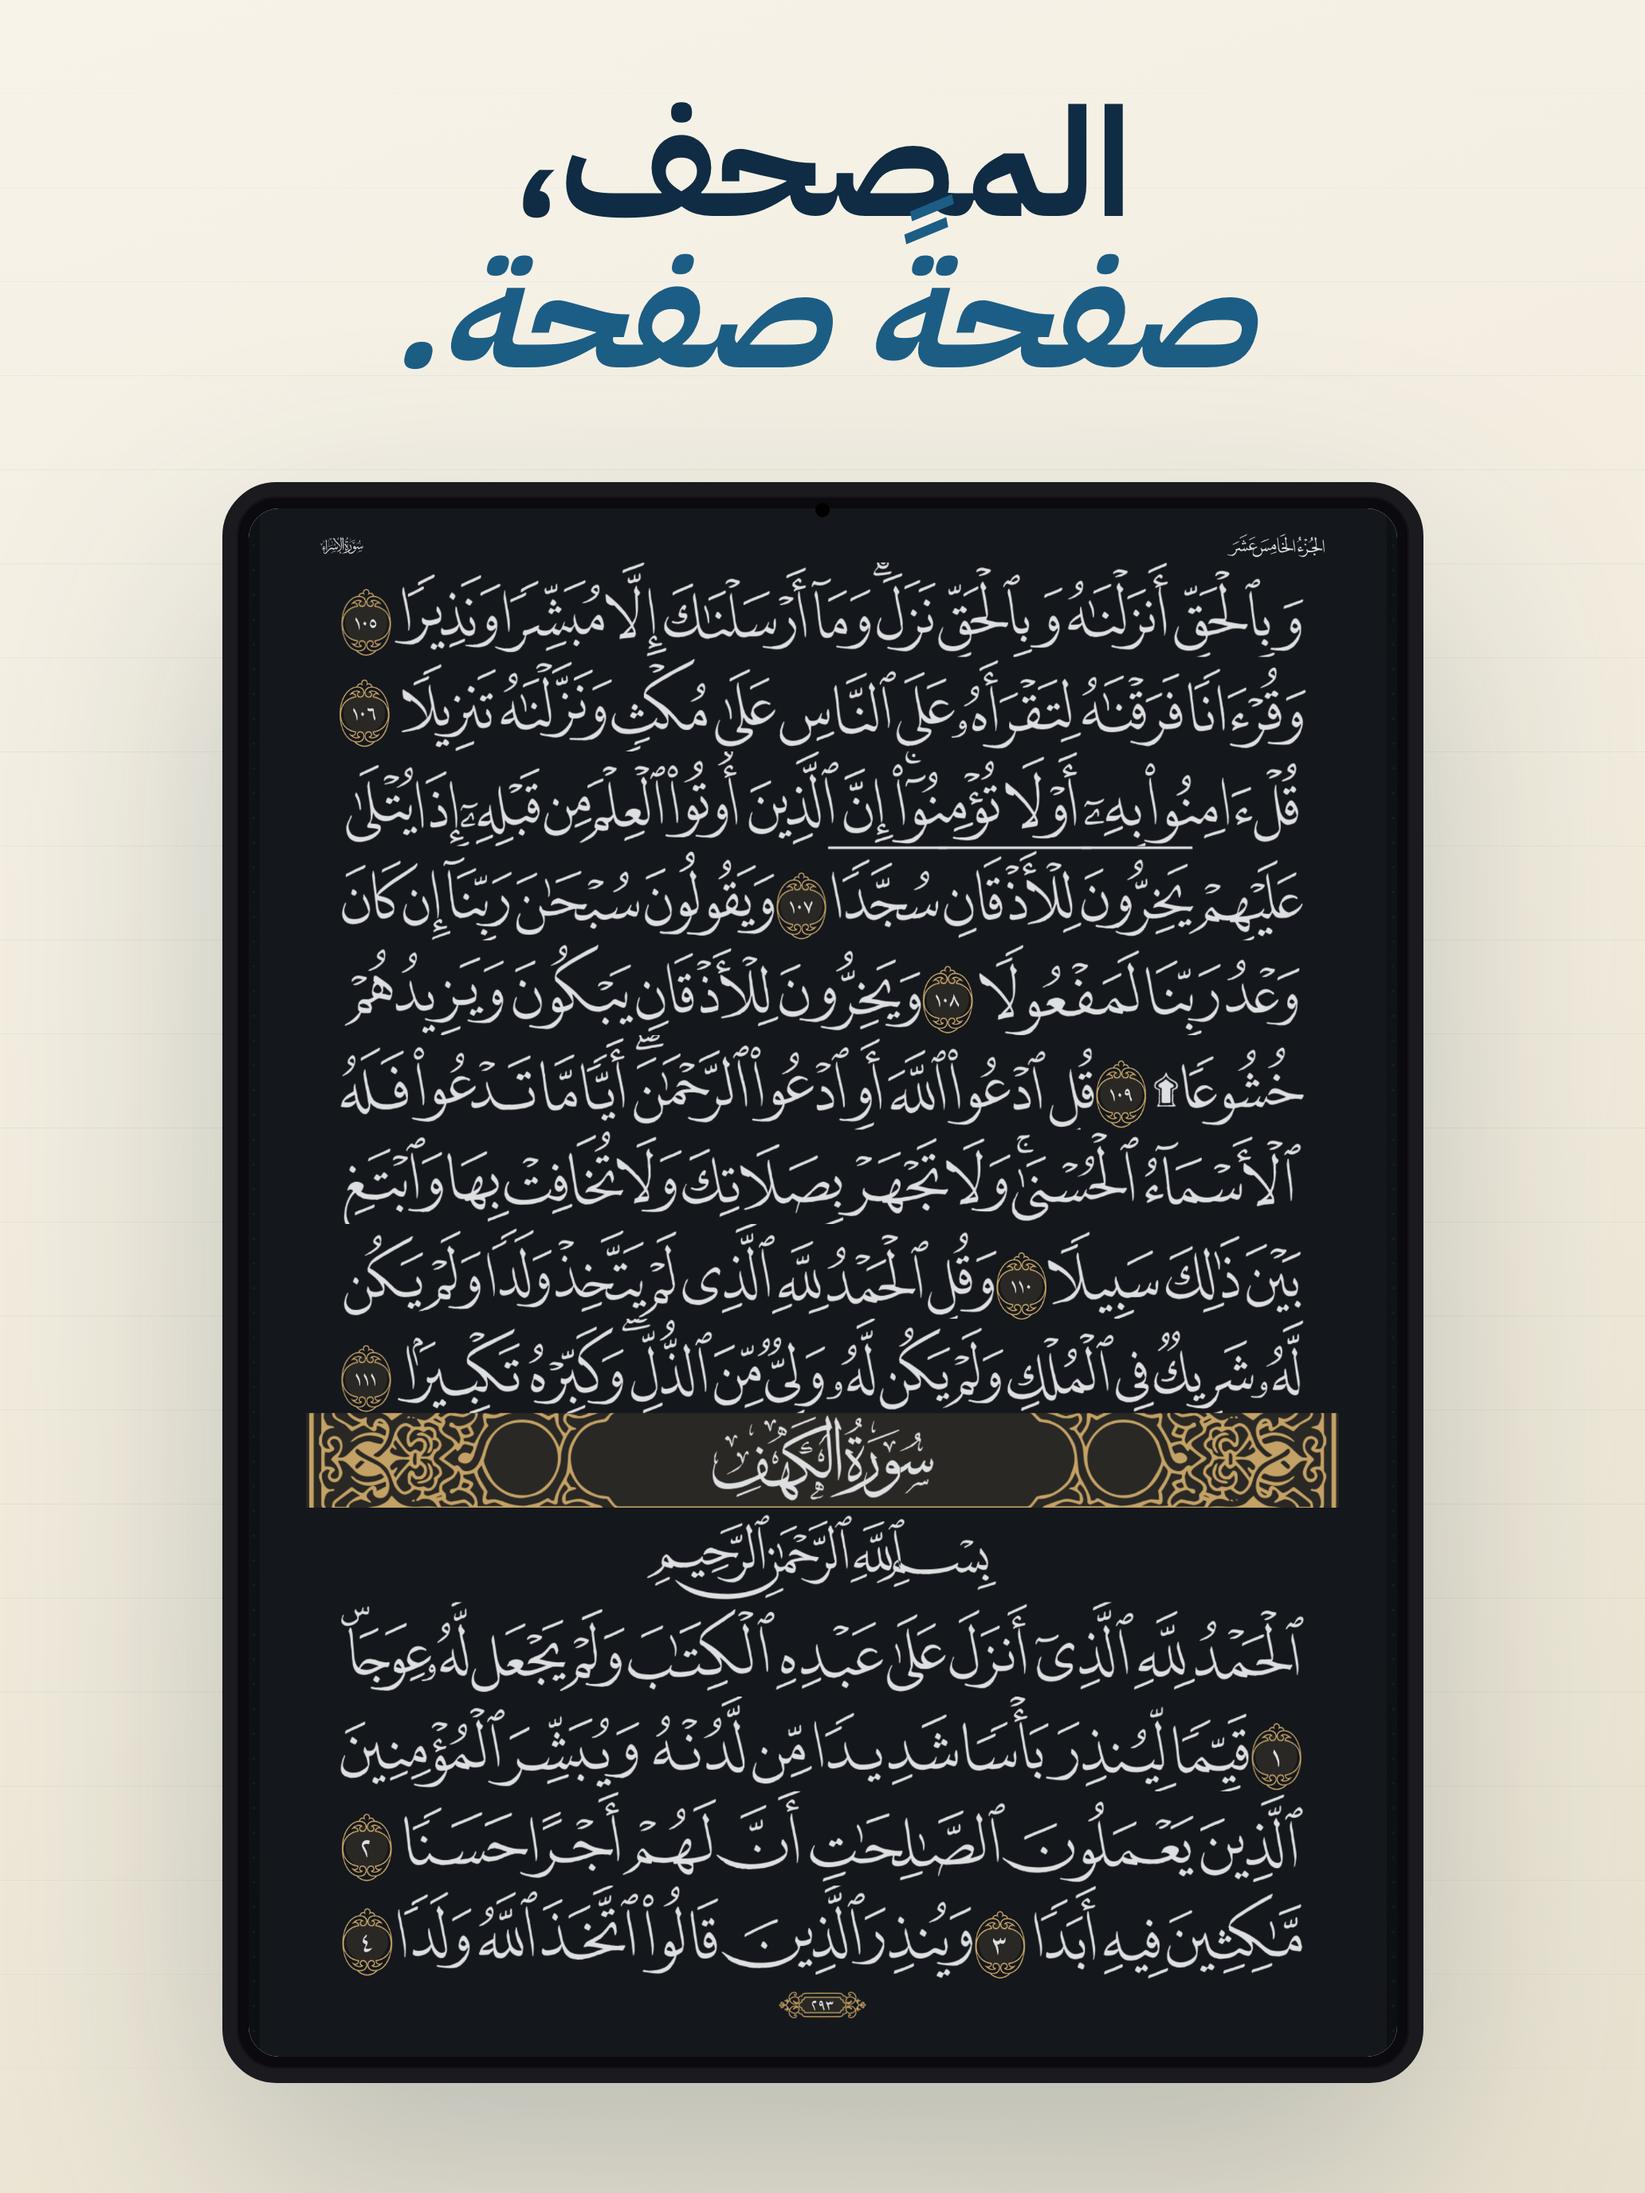
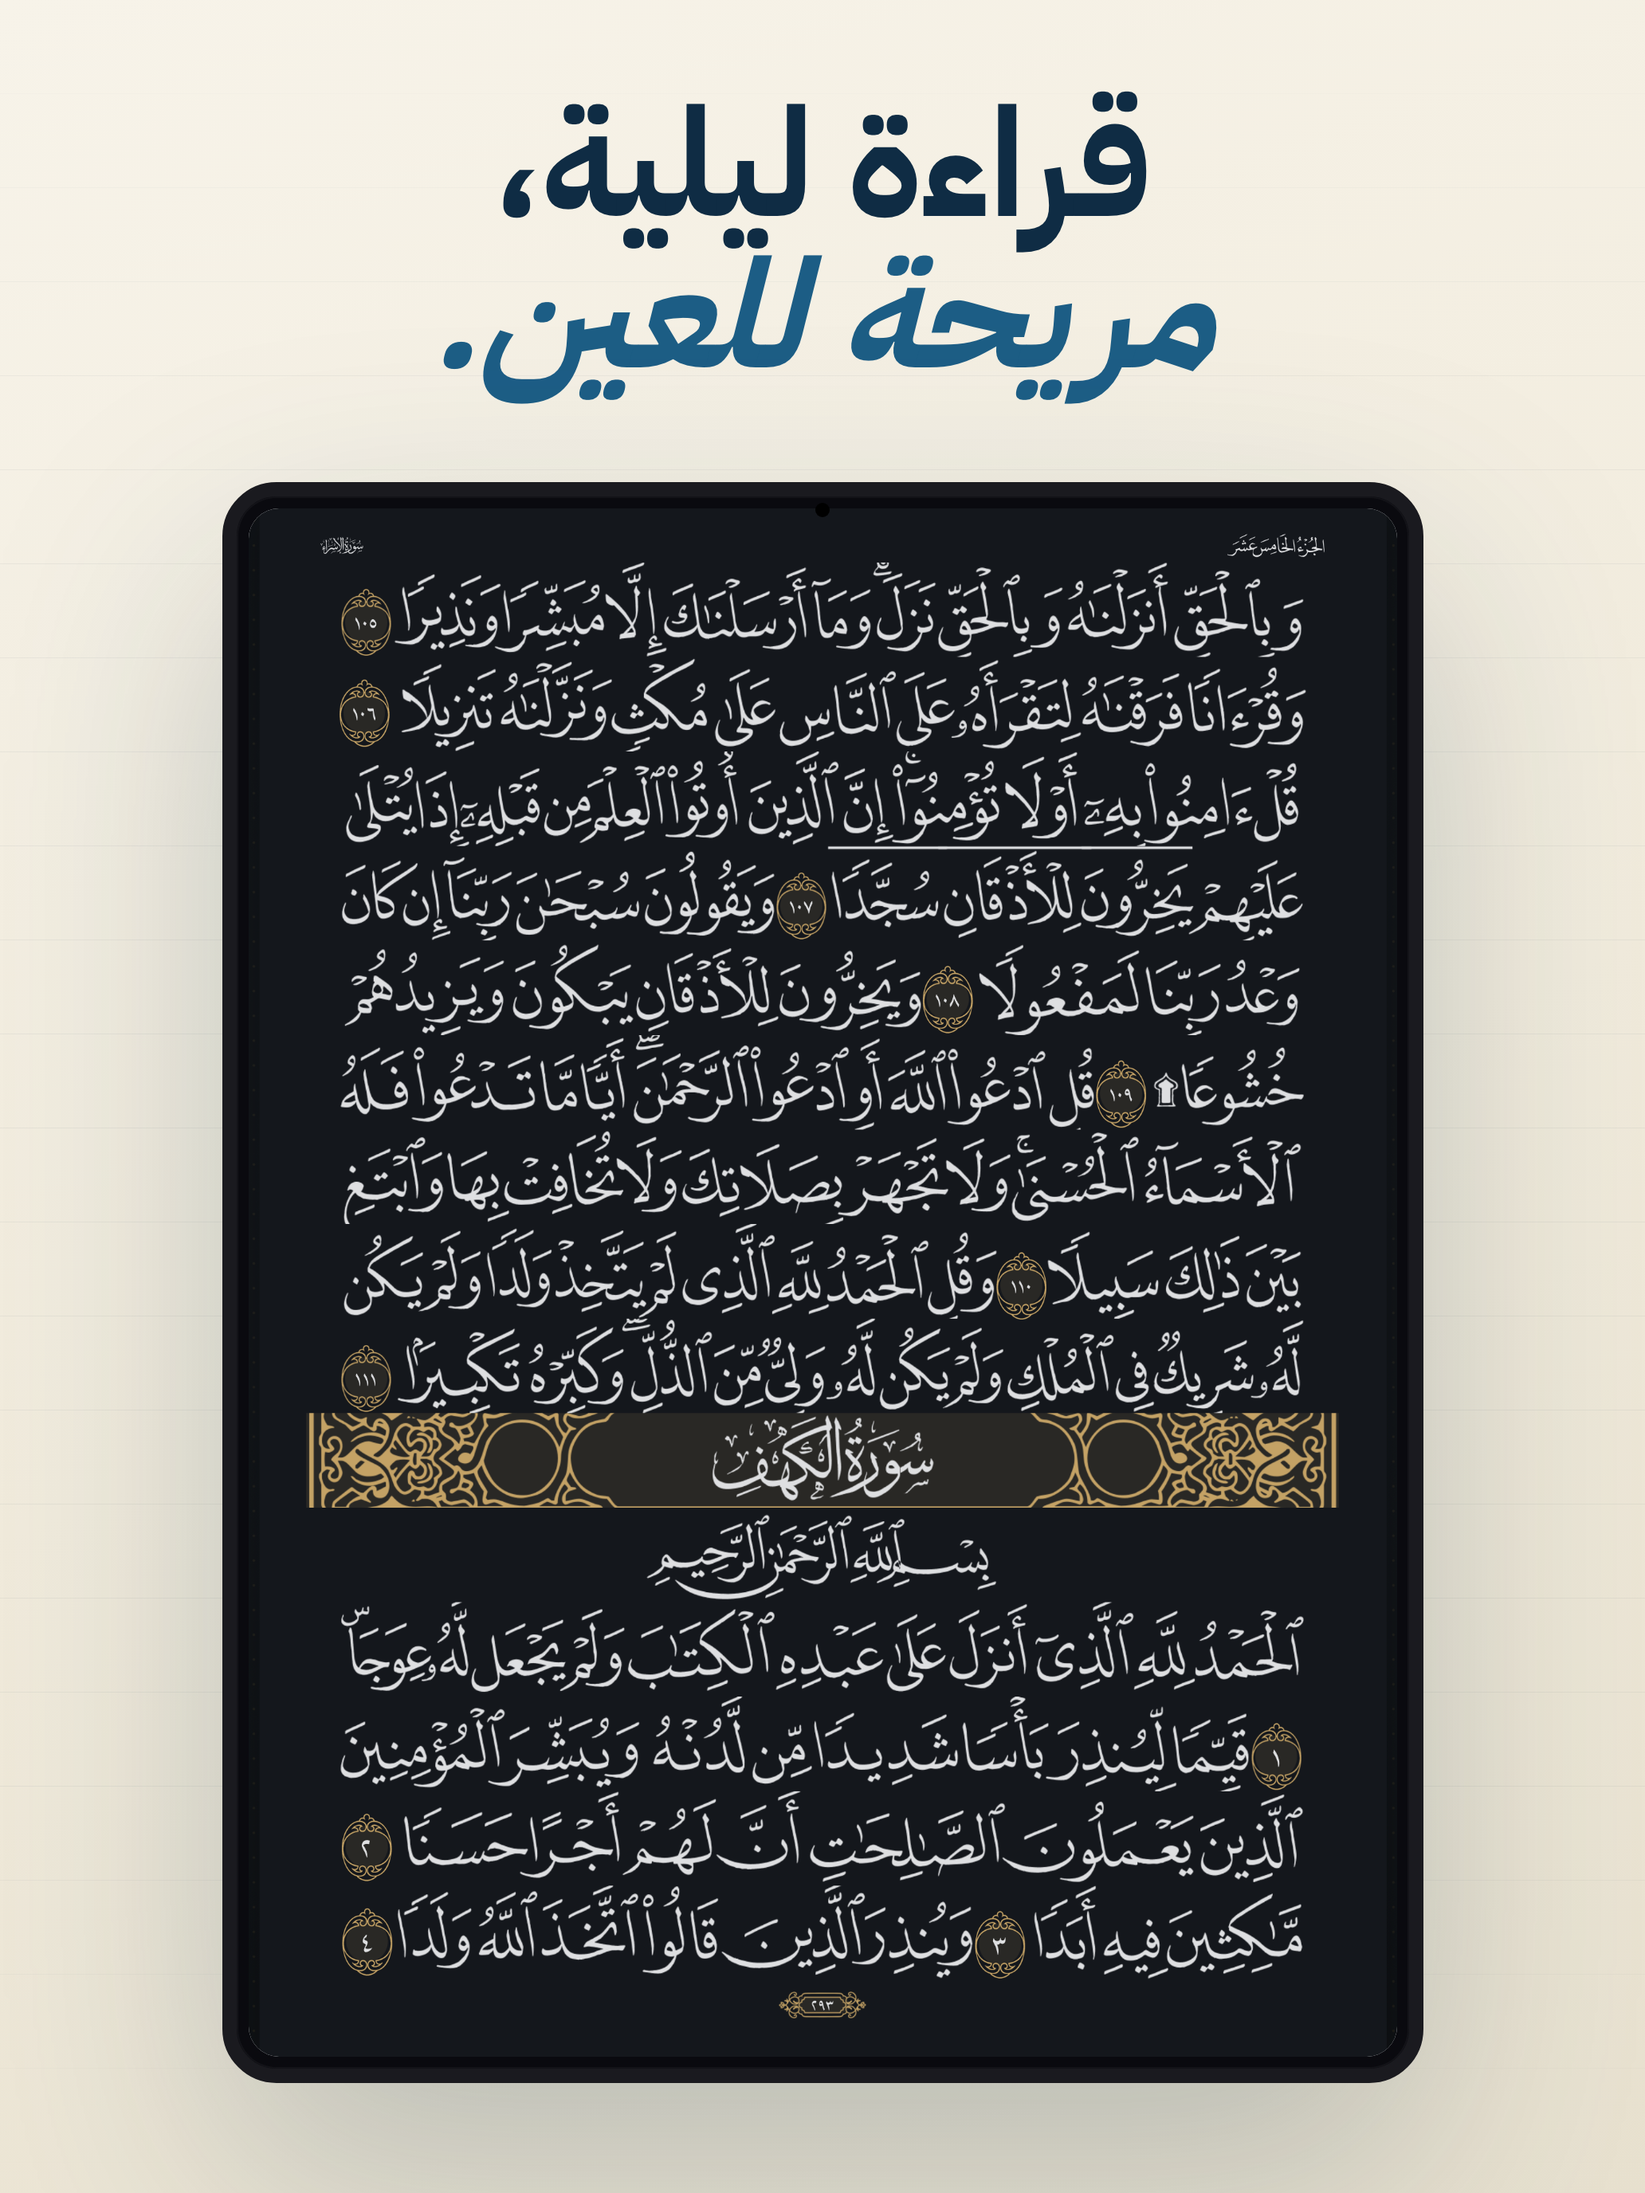
feat(screenshots): give the dark reader cell its own headline

Changed region(s): [[0.2481, 0.0312, 0.7752, 0.1875]]

diff --git a/scripts/screenshots/run.ts b/scripts/screenshots/run.ts
@@ -44,7 +44,8 @@ const SCRIPT_DIR = path.dirname(fileURLToPath(import.meta.url));
 const PROJECT_ROOT = path.resolve(SCRIPT_DIR, "..", "..");
 const RAW_DIR = path.join(PROJECT_ROOT, "tmp", "screenshots-raw");
 const OUT_DIR = path.join(PROJECT_ROOT, "fastlane", "screenshots");
-const WEBSITE_DIR = path.join(PROJECT_ROOT, "website-v2", "src", "assets", "screenshots");
+// The site is a sibling repo (Astro), not a directory inside the app.
+const WEBSITE_DIR = path.join(PROJECT_ROOT, "..", "website", "src", "assets", "screenshots");
 
 function sh(cmd: string, args: string[]): void {
   execFileSync(cmd, args, { stdio: "inherit" });
@@ -94,8 +95,25 @@ function getBootedDeviceId(): string {
 function getBootedAndroidSerial(): string {
   const output = shOut("adb", ["devices"]);
   // `adb devices` prints a header line then `<serial>\t<state>` rows.
-  for (const line of output.split("\n").slice(1)) {
-    const [serial, state] = line.trim().split(/\s+/);
+  const rows = output
+    .split("\n")
+    .slice(1)
+    .map((line) => line.trim().split(/\s+/))
+    .filter(([serial, state]) => serial && state === "device");
+  // With more than one emulator up, picking the first row silently targets
+  // whichever adb happened to list first. ANDROID_SERIAL names the intended one.
+  const wanted = process.env.ANDROID_SERIAL;
+  if (wanted) {
+    const match = rows.find(([serial]) => serial === wanted);
+    if (!match) {
+      throw new Error(
+        `ANDROID_SERIAL=${wanted} is not an attached device. Attached: ${rows.map(([s]) => s).join(", ") || "none"}`
+      );
+    }
+    console.log(`[verify] using android device from ANDROID_SERIAL: ${wanted}`);
+    return wanted;
+  }
+  for (const [serial, state] of rows) {
     if (serial && state === "device") {
       console.log(`[verify] using running android device: ${serial}`);
       return serial;
@@ -239,6 +257,7 @@ async function buildCell(opts: {
     device,
     locale,
     variant: "hero",
+    theme: cell.theme,
   });
 }
 

diff --git a/scripts/screenshots/render-variant.ts b/scripts/screenshots/render-variant.ts
@@ -29,6 +29,7 @@ export type RenderInput = {
   locale: "en" | "ar";
   device: DeviceSpec;
   variant: Variant;
+  theme?: "light" | "dark";
 };
 
 type BilingualCopy = {
@@ -87,6 +88,10 @@ const HERO_COPY: Record<"en" | "ar", Record<string, HeroCopy>> = {
       headlineLine1: "The mushaf,",
       headlineLine2Italic: "page by page.",
     },
+    "quran-dark": {
+      headlineLine1: "Night reading,",
+      headlineLine2Italic: "easy on the eyes.",
+    },
     "athkar-with-audio": {
       headlineLine1: "Morning & evening athkar, with sound.",
       headlineLine2Italic: "Hisn al-Muslim or your own.",
@@ -129,6 +134,10 @@ const HERO_COPY: Record<"en" | "ar", Record<string, HeroCopy>> = {
     quran: {
       headlineLine1: "المصحف،",
       headlineLine2Italic: "صفحةً صفحة.",
+    },
+    "quran-dark": {
+      headlineLine1: "قراءة ليلية،",
+      headlineLine2Italic: "مريحة للعين.",
     },
     "athkar-with-audio": {
       headlineLine1: "أذكار الصباح والمساء، بالصوت.",
@@ -859,7 +868,12 @@ export async function renderVariant(input: RenderInput): Promise<Buffer> {
       input.device.platform === "ios"
         ? HERO_COPY_IOS_OVERRIDE[input.locale]?.[input.screen]
         : undefined;
-    const copy = override ?? HERO_COPY[input.locale][input.screen];
+    // A screen may appear twice in one plan under different themes, so prefer a
+    // `<screen>-<theme>` entry and fall back to the screen's default copy.
+    const themed = input.theme
+      ? HERO_COPY[input.locale][`${input.screen}-${input.theme}`]
+      : undefined;
+    const copy = override ?? themed ?? HERO_COPY[input.locale][input.screen];
     if (!copy) {
       throw new Error(`No hero copy for ${input.locale}/${input.screen}. Add it to HERO_COPY.`);
     }
